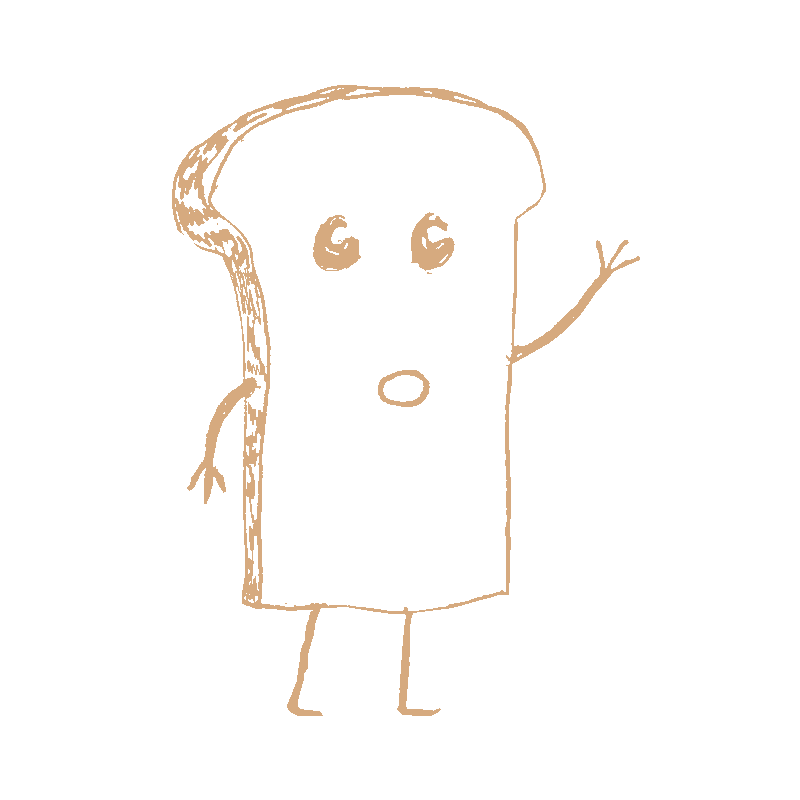
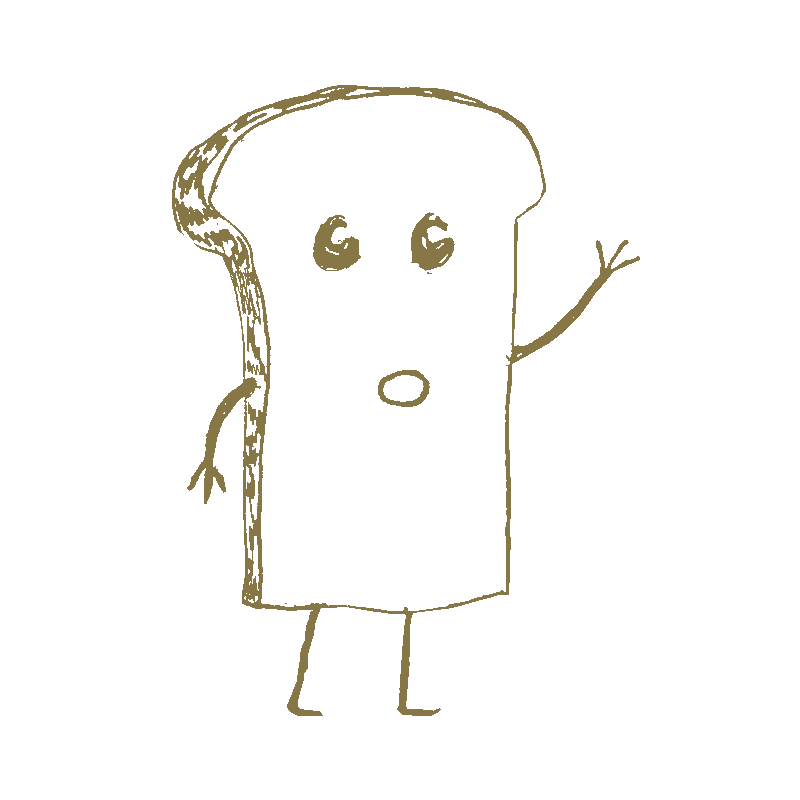
Add audio test(as not supported by IDE)

diff --git a/index.html b/index.html
@@ -46,14 +46,14 @@
                         <div class="container-fluid game-tile-area">
                             <div class="row box-display justify-content-center">
                                 <div class="col-8-sm col-xs-3 justify-content-center">
-                                    <div class="tile justify-content-center" id="cinnimon-roll"></div>
-                                    <div class="tile justify-content-center" id="bread"></div>
+                                    <div class="tile justify-content-center" id="cinnimon-roll"> <audio preload="auto" id="btn-audio1" src="assets/sounds/sound1.mp3"></audio></div>
+                                    <div class="tile justify-content-center" id="bread"><audio preload="auto" id="btn-audio2" src="assets/sounds/sound2.mp3"></audio></div>
                                 </div>
                             </div>
                             <div class="row box-display justify-content-center">
                                 <div class="col-8-sm col-xs-3 justify-content-center">
-                                    <div class="tile justify-content-center" id="pain-au-chocolat"></div>
-                                    <div class="tile justify-content-center" id="fairy-cake"></div>
+                                    <div class="tile justify-content-center" id="pain-au-chocolat"><audio preload="auto" id="btn-audio3" src="assets/sounds/sound1.mp3"></audio></div>
+                                    <div class="tile justify-content-center" id="fairy-cake"><audio preload="auto" id="btn-audio4" src="assets/sounds/sound2.mp3"></audio></div>
                                 </div>
                             </div>
                         </div>

diff --git a/assets/js/script.js b/assets/js/script.js
@@ -147,11 +147,14 @@ function gameTurn() {
 
 function one() {
     cinRoll.style.backgroundColor = "cornflowerblue";
+    let audio1 = document.getElementById('btn-audio1');
+    audio.play();
 }
 
 function two() {
     bread.style.backgroundColor = "#ff69b4";
-   
+    let audio2 = document.getElementById('btn-audio2');
+    audio.play();  
 }
 
 

diff --git a/assets/css/stylier.css b/assets/css/stylier.css
@@ -8,7 +8,7 @@ body, html {
     padding: 0;
     background-color: #EB5E28;
     font-family: 'VT323', monospace;
-     background-image: url(../img/costumer_breadgrey.png);
+     background-image: url(../img/costumer_breadpeach.png);
     background-size: 60%;
     background-repeat: no-repeat;
     position: relative;
